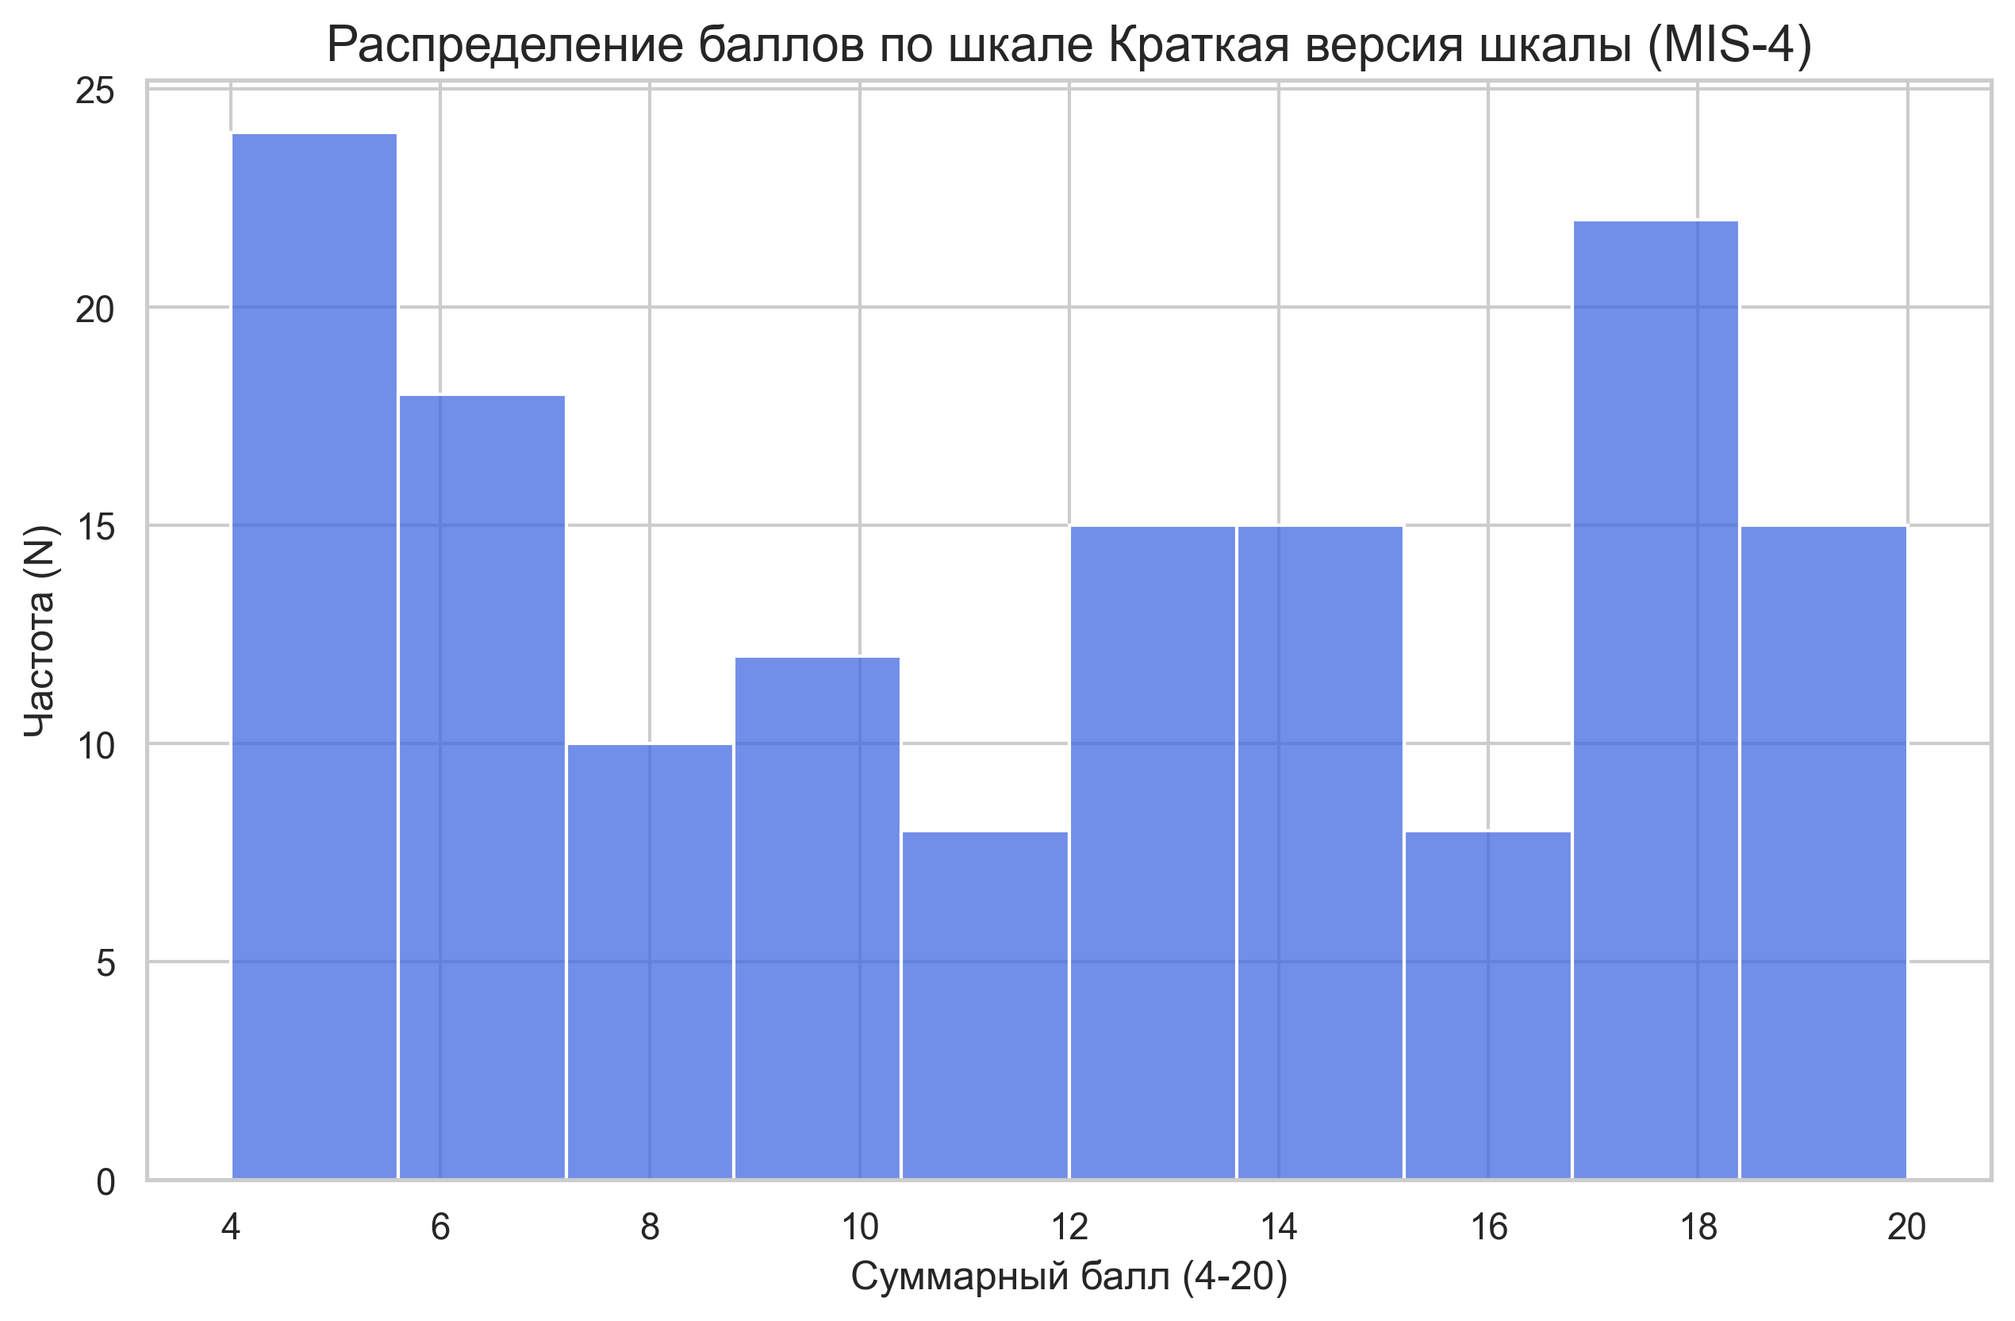
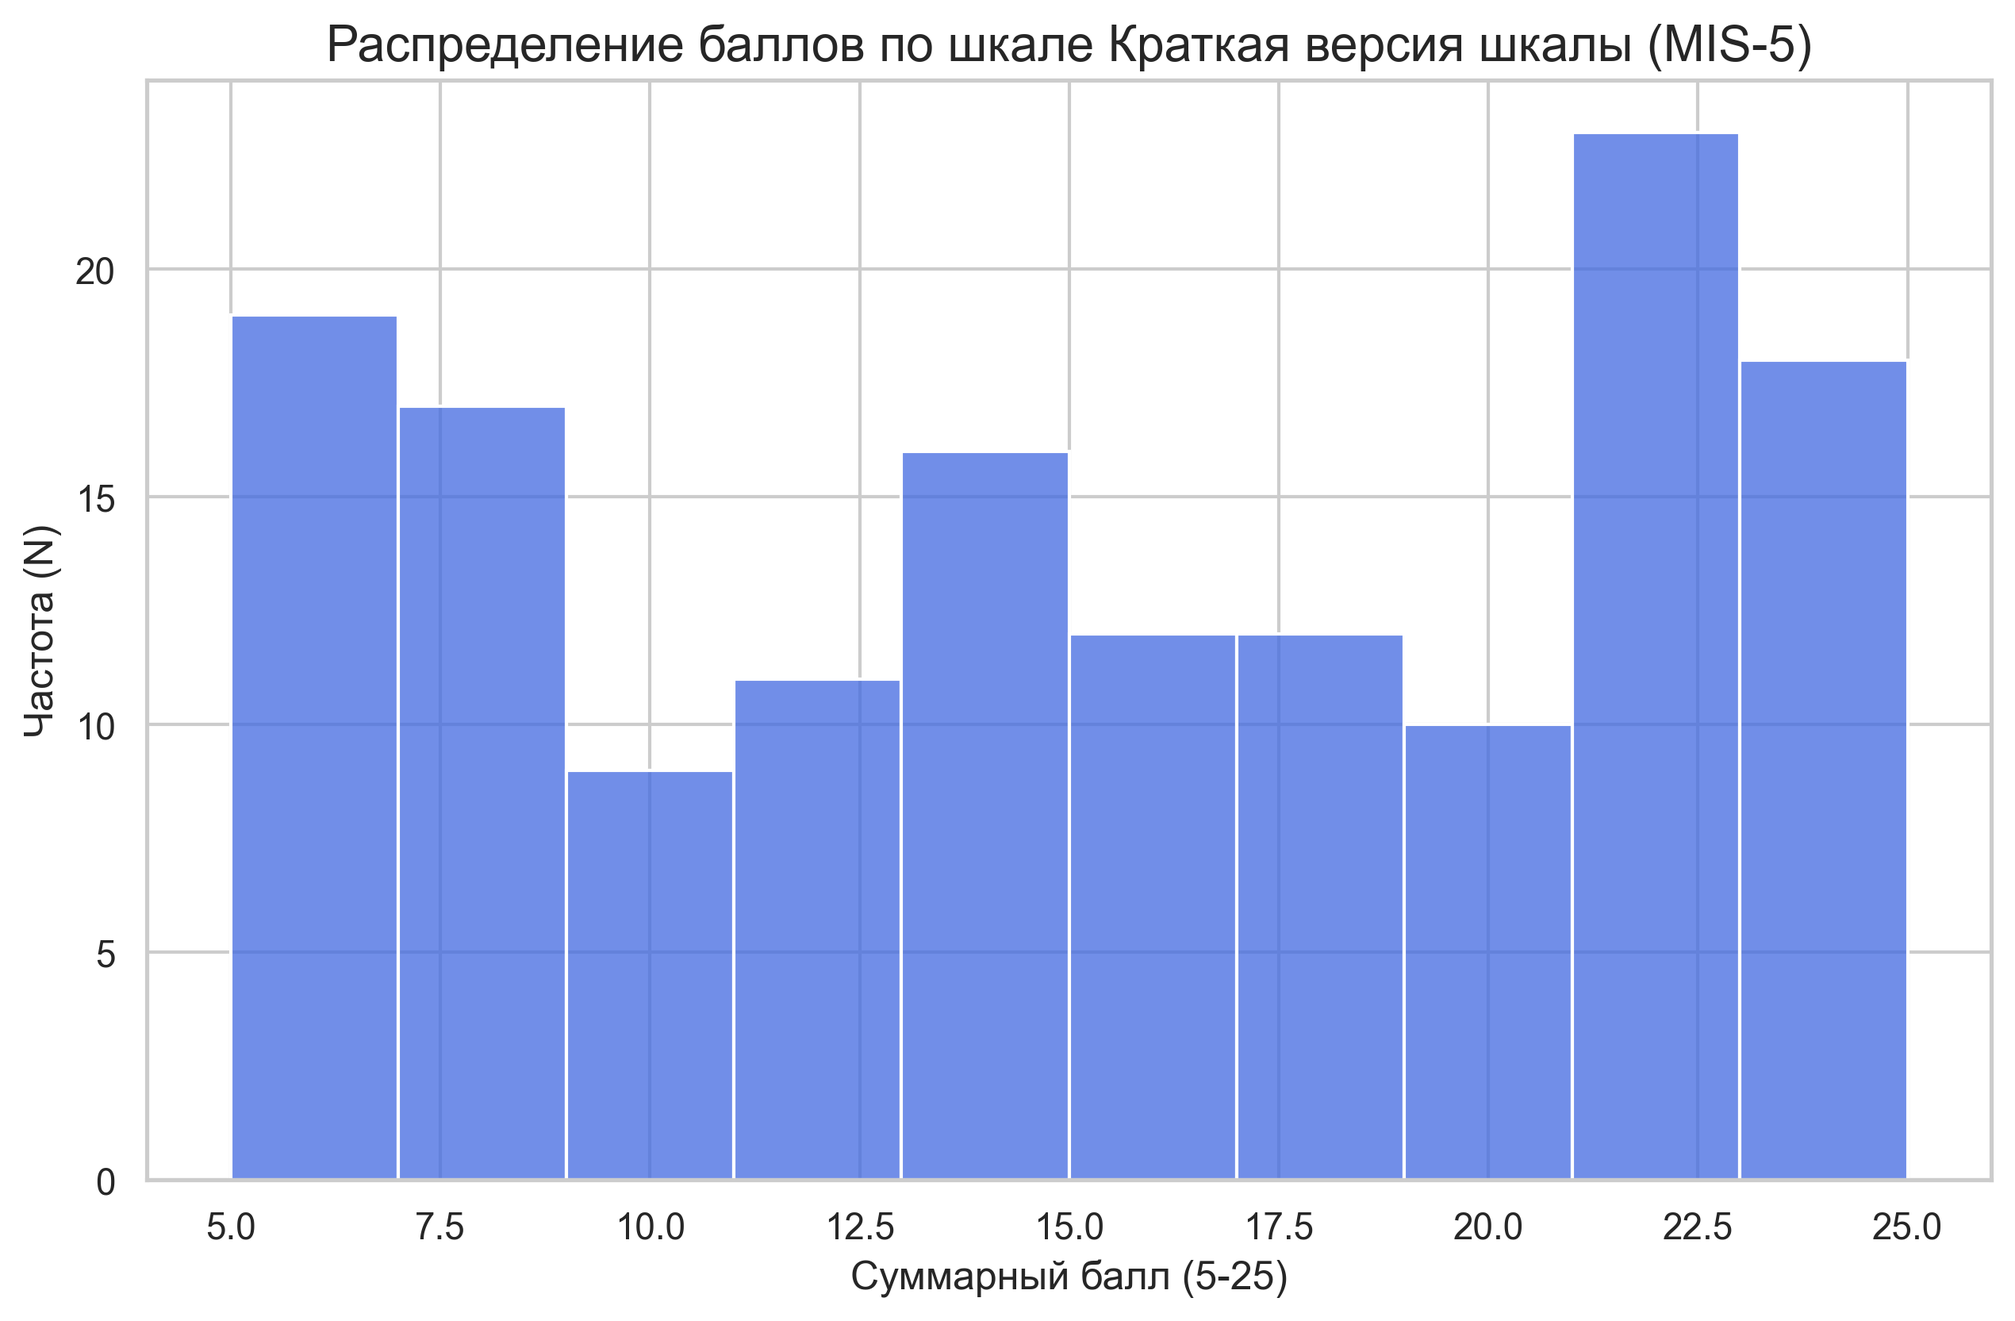
Добавил бутстрепа

diff --git a/Survey-00 (Multi-Item Scale Development)/mis_psychometric_report_gen.py b/Survey-00 (Multi-Item Scale Development)/mis_psychometric_report_gen.py
@@ -49,8 +49,8 @@ warnings.filterwarnings("ignore")
 SCRIPT_DIR = os.path.dirname(os.path.abspath(__file__))
 FILE_PATH = os.path.join(SCRIPT_DIR, 'Тест многопунктовой шкалы - RawResponses (1).csv')
 OUTPUT_MD = os.path.join(SCRIPT_DIR, 'mis_full_psychometric_report.md')
-OUTPUT_MD = r'C:\Users\maxim\OneDrive\Obsidian\MyBrain\Мои исследования\Джедайская шкала\mis_full_psychometric_report.md'
-SHORT_SCALE_SIZE = 4
+#OUTPUT_MD = r'C:\Users\maxim\OneDrive\Obsidian\MyBrain\Мои исследования\Джедайская шкала\mis_full_psychometric_report.md'
+SHORT_SCALE_SIZE = 5
 MIS_CUSTOM_COLS = ['MIS_q_28', 'MIS_q_24', 'MIS_q_16', 'MIS_q_26', 'MIS_q_13']
 
 
@@ -292,6 +292,43 @@ class MISAnalyzer:
         avg_corr = inter_corr.where(mask).stack().mean()
         return inter_corr, avg_corr
 
+    def bootstrap_selection_stability(self, n_iterations=100, n_top=None):
+        if n_top is None:
+            n_top = SHORT_SCALE_SIZE
+            
+        print(f"Running Bootstrap Stability Analysis ({n_iterations} iterations)...")
+        cols = [f'MIS_q_{i}' for i in range(1, 31)]
+        selection_counts = {c: 0 for c in cols}
+        
+        for i in range(n_iterations):
+            if (i + 1) % 100 == 0:
+                print(f"    Iteration {i + 1}/{n_iterations}...")
+            
+            # Resample with replacement
+            sample = self.df[cols].sample(n=len(self.df), replace=True)
+            # sample = self.df[cols].sample(frac=0.8, replace=False) # Вариант большей жести
+            
+            try:
+                # FA 1-factor unrotated
+                fa = FactorAnalyzer(n_factors=1, rotation=None)
+                fa.fit(sample)
+                loadings = np.abs(fa.loadings_[:, 0])
+            except:
+                # Fallback to PCA if FA fails on a specific sample
+                pca = PCA(n_components=1)
+                std_sample = (sample - sample.mean()) / sample.std()
+                pca.fit(std_sample)
+                loadings = np.abs(pca.components_[0])
+                
+            loadings_series = pd.Series(loadings, index=cols)
+            top_items = loadings_series.sort_values(ascending=False).head(n_top).index
+            for item in top_items:
+                selection_counts[item] += 1
+                
+        # Convert to percentage
+        stability = pd.Series(selection_counts) / n_iterations
+        return stability.sort_values(ascending=False)
+
     def get_correlations(self):
         mis_scales = list(MIS_BLOCKS.keys()) + ['MIS_Total', 'MIS_short']
         if 'MIS_custom' in self.df.columns:
@@ -361,9 +398,12 @@ def run_report():
     factors_unrotated = analyzer.get_factor_structure(rotation=None)
     factors_full = analyzer.get_factor_structure(rotation='varimax')
     
+    # Bootstrap Stability Analysis
+    stability_data = analyzer.bootstrap_selection_stability(n_iterations=1000)
+    
     corr_m, p_m = analyzer.get_correlations()
     
-    def write_scale_analysis(f, analyzer, title, scale_id, cols):
+    def write_scale_analysis(f, analyzer, title, scale_id, cols, stability_series=None):
         print(f"Computing metrics for {title}...")
         psy = analyzer.get_psychometrics(cols)
         factors = analyzer.get_factor_structure(cols)
@@ -432,6 +472,46 @@ def run_report():
             f.write("### Валидность (визуализация связи):\n\n")
             f.write(f"![Связь {scale_id} с single_item]({reg_img_name})\n\n")
             
+            if scale_id == 'short' and stability_series is not None:
+                # Stability plot
+                plt.figure(figsize=(10, 6))
+                top_15_stability = stability_series.head(15)
+                # Ensure we represent IDs correctly for x-axis
+                x_labels = [str(int(idx.split('_')[-1])) for idx in top_15_stability.index]
+                
+                ax = sns.barplot(x=x_labels, y=top_15_stability.values, color='seagreen')
+
+                # Add text labels on top of bars
+                for p in ax.patches:
+                    ax.annotate(f'{p.get_height():.1%}', 
+                                (p.get_x() + p.get_width() / 2., p.get_height()), 
+                                ha = 'center', va = 'center', 
+                                xytext = (0, 9), 
+                                textcoords = 'offset points', 
+                                fontsize=9)
+
+                plt.title(f'Устойчивость выбора пунктов MIS-{SHORT_SCALE_SIZE} (Bootstrap)', fontsize=15)
+                plt.xlabel('ID пункта (MIS_q_x)', fontsize=12)
+                plt.ylabel(f'Частота попадания в ТОП-{SHORT_SCALE_SIZE}', fontsize=12)
+                plt.ylim(0, 1.1)
+                
+                stab_img_name = f'mis_{scale_id}_stability.png'
+                stab_img_path = os.path.join(os.path.dirname(OUTPUT_MD), stab_img_name)
+                plt.savefig(stab_img_path, dpi=300, bbox_inches='tight')
+                plt.close()
+                f.write("### Анализ устойчивости выбора (Bootstrap):\n\n")
+                f.write(f"![Устойчивость {scale_id}]({stab_img_name})\n\n")
+                
+                f.write("> [!NOTE]\n")
+                f.write("> График показывает, как часто каждый пункт попадал в ТОП при 500 повторных расчетах на случайных подвыборках. ")
+                f.write("Пункты с частотой выше 0.8-0.9 считаются абсолютно стабильными для этой шкалы.\n\n")
+                
+                f.write("| Пункт | Частота попадания в ТОП |\n|---|---|\n")
+                for idx, val in top_15_stability.items():
+                    bold = "**" if idx in cols else ""
+                    f.write(f"| {bold}{idx}{bold} | {val:.1%} |\n")
+                f.write("\n")
+                
         except Exception as plot_err:
             print(f"    Plotting error for {scale_id}: {plot_err}")
 
@@ -524,7 +604,7 @@ def run_report():
         f.write("---")
         
         # Section for Short Scale
-        write_scale_analysis(f, analyzer, f"Краткая версия шкалы (MIS-{SHORT_SCALE_SIZE})", "short", analyzer.mis_short_cols)
+        write_scale_analysis(f, analyzer, f"Краткая версия шкалы (MIS-{SHORT_SCALE_SIZE})", "short", analyzer.mis_short_cols, stability_data)
         
         f.write("\n---\n")
         

diff --git a/Survey-00 (Multi-Item Scale Development)/mis_full_psychometric_report.md b/Survey-00 (Multi-Item Scale Development)/mis_full_psychometric_report.md
@@ -31,7 +31,7 @@
 ### Нагрузки факторов (без вращения):
 
 > [!NOTE]
-> В этой таблице представлены нагрузки на первые 5 факторов до применения вращения. Первый фактор (F1) здесь отражает общее ядро шкалы (General Factor), по которому отбирались пункты для MIS-4.
+> В этой таблице представлены нагрузки на первые 5 факторов до применения вращения. Первый фактор (F1) здесь отражает общее ядро шкалы (General Factor), по которому отбирались пункты для MIS-5.
 
 | Пункт | F1 | F2 | F3 | F4 | F5 |
 |---|---|---|---|---|---|
@@ -106,24 +106,24 @@
 
 ---
 
-# Краткая версия шкалы (MIS-4)
+# Краткая версия шкалы (MIS-5)
 
-Размер шкалы: 4 пунктов.
+Размер шкалы: 5 пунктов.
 
 > [!TIP]
 > Для выбора пунктов использовалось **однофакторное невращаемое решение**. Порядок пунктов в таблице полной шкалы может отличаться, так как там применено вращение Varimax для 5 факторов, перераспределяющее нагрузку. Для краткой версии мы выбираем пункты, максимально нагруженные на общий 'General Factor'.
 
 ## 1. Психометрические свойства short
 
-- **Альфа Кронбаха: 0.936**
-- **Омега Макдональда: 0.936**
-- **Средняя межпунктовая корреляция: 0.785**
-- **Доля дисперсии (PCA F1): 83.9%**
-- **Мера адекватности выборки KMO: 0.850**
+- **Альфа Кронбаха: 0.945**
+- **Омега Макдональда: 0.945**
+- **Средняя межпунктовая корреляция: 0.774**
+- **Доля дисперсии (PCA F1): 82.0%**
+- **Мера адекватности выборки KMO: 0.897**
 - **Критерий сферичности Барлетта: p < 0.001*****
 
 ### Собственные числа (short):
-6.77, 0.60, 0.39, 0.31
+8.25, 0.63, 0.52, 0.35, 0.31
 
 ### Распределение баллов:
 
@@ -133,32 +133,60 @@
 
 ![Связь short с single_item](mis_short_vs_single.png)
 
+### Анализ устойчивости выбора (Bootstrap):
+
+![Устойчивость short](mis_short_stability.png)
+
+> [!NOTE]
+> График показывает, как часто каждый пункт попадал в ТОП при 500 повторных расчетах на случайных подвыборках. Пункты с частотой выше 0.8-0.9 считаются абсолютно стабильными для этой шкалы.
+
+| Пункт | Частота попадания в ТОП |
+|---|---|
+| **MIS_q_28** | 99.2% |
+| **MIS_q_24** | 93.2% |
+| **MIS_q_16** | 72.0% |
+| **MIS_q_26** | 70.5% |
+| **MIS_q_15** | 58.8% |
+| MIS_q_13 | 32.9% |
+| MIS_q_12 | 18.3% |
+| MIS_q_22 | 18.2% |
+| MIS_q_17 | 13.3% |
+| MIS_q_25 | 8.9% |
+| MIS_q_23 | 5.6% |
+| MIS_q_5 | 3.3% |
+| MIS_q_14 | 3.0% |
+| MIS_q_21 | 1.4% |
+| MIS_q_9 | 0.8% |
+
 ### Факторные нагрузки short (EFA):
 
 | Пункт | Нагрузка (Factor 1) |
 |---|---|
-| MIS_q_28 | -0.918 |
-| MIS_q_24 | -0.893 |
-| MIS_q_16 | -0.836 |
-| MIS_q_26 | -0.899 |
+| MIS_q_28 | -0.925 |
+| MIS_q_24 | -0.875 |
+| MIS_q_16 | -0.851 |
+| MIS_q_26 | -0.894 |
+| MIS_q_15 | -0.855 |
 
 ### Матрица межпунктовых корреляций short:
 
-| | MIS_q_28 | MIS_q_24 | MIS_q_16 | MIS_q_26 |
-|---|---|---|---|---|
-| **MIS_q_28** | 1.000 | 0.798 | 0.787 | 0.828 |
-| **MIS_q_24** | 0.798 | 1.000 | 0.749 | 0.822 |
-| **MIS_q_16** | 0.787 | 0.749 | 1.000 | 0.728 |
-| **MIS_q_26** | 0.828 | 0.822 | 0.728 | 1.000 |
+| | MIS_q_28 | MIS_q_24 | MIS_q_16 | MIS_q_26 | MIS_q_15 |
+|---|---|---|---|---|---|
+| **MIS_q_28** | 1.000 | 0.798 | 0.787 | 0.828 | 0.802 |
+| **MIS_q_24** | 0.798 | 1.000 | 0.749 | 0.822 | 0.717 |
+| **MIS_q_16** | 0.787 | 0.749 | 1.000 | 0.728 | 0.759 |
+| **MIS_q_26** | 0.828 | 0.822 | 0.728 | 1.000 | 0.754 |
+| **MIS_q_15** | 0.802 | 0.717 | 0.759 | 0.754 | 1.000 |
 
 ### Пункты short и их характеристики:
 
 | # | Текст пункта | Mean | SD | r-total | α-deleted |
 |---|---|---|---|---|---|
-| 28 | Я чувствую, что мои ресурсы (время и энергия) исчерпываются на срочное | 3.12 | 1.43 | 0.876 | 0.907 |
-| 24 | Срочные дела мешают мне развиваться в нужном мне направлении | 2.92 | 1.38 | 0.854 | 0.914 |
-| 16 | Я живу в режиме "тушения пожаров" большую часть времени | 2.71 | 1.45 | 0.806 | 0.930 |
-| 26 | Мой потенциал не реализуется из-за необходимости постоянно реагировать на срочное | 2.89 | 1.41 | 0.858 | 0.913 |
+| 28 | Я чувствую, что мои ресурсы (время и энергия) исчерпываются на срочное | 3.12 | 1.43 | 0.890 | 0.925 |
+| 24 | Срочные дела мешают мне развиваться в нужном мне направлении | 2.92 | 1.38 | 0.845 | 0.933 |
+| 16 | Я живу в режиме "тушения пожаров" большую часть времени | 2.71 | 1.45 | 0.825 | 0.937 |
+| 26 | Мой потенциал не реализуется из-за необходимости постоянно реагировать на срочное | 2.89 | 1.41 | 0.861 | 0.930 |
+| 15 | Срочные дела забирают мою лучшую энергию, важное получает остатки | 3.16 | 1.41 | 0.828 | 0.936 |
 
 ## 2. Валидность и Сравнение
 
@@ -166,14 +194,14 @@
 
 | Критерий | MIS-Total (30) | short | Сохранение связи |
 |---|---|---|---|
-| Планомерность | -0.453 | -0.441 | 97.3% |
-| Целеустремленность | -0.335 | -0.343 | 102.4% |
-| Настойчивость | -0.514 | -0.490 | 95.2% |
-| Фиксация на структурировании | 0.476 | 0.458 | 96.2% |
-| Самоорганизация | -0.125 | -0.109 | 87.3% |
-| Ориентация на настоящее | -0.157 | -0.153 | 97.1% |
-| ОСД Итого | -0.396 | -0.386 | 97.6% |
-| single_item | -0.751 | -0.715 | 95.1% |
+| Планомерность | -0.453 | -0.442 | 97.6% |
+| Целеустремленность | -0.335 | -0.347 | 103.3% |
+| Настойчивость | -0.514 | -0.489 | 95.0% |
+| Фиксация на структурировании | 0.476 | 0.466 | 97.8% |
+| Самоорганизация | -0.125 | -0.102 | 81.2% |
+| Ориентация на настоящее | -0.157 | -0.166 | 105.6% |
+| ОСД Итого | -0.396 | -0.385 | 97.4% |
+| single_item | -0.751 | -0.726 | 96.7% |
 
 ---
 
@@ -258,5 +286,5 @@
 | Влияние на долгосрочные цели | -0.421*** | -0.299*** | -0.530*** | 0.469*** | -0.102 | -0.158 | -0.373*** | -0.713*** |
 | Истощение ресурсов и усталость | -0.381*** | -0.327*** | -0.438*** | 0.450*** | -0.079 | -0.183* | -0.339*** | -0.708*** |
 | Общий балл MIS (30 пунктов) | -0.453*** | -0.335*** | -0.514*** | 0.476*** | -0.125 | -0.157 | -0.396*** | -0.751*** |
-| MIS_short | -0.441*** | -0.343*** | -0.490*** | 0.458*** | -0.109 | -0.153 | -0.386*** | -0.715*** |
+| MIS_short | -0.442*** | -0.347*** | -0.489*** | 0.466*** | -0.102 | -0.166* | -0.385*** | -0.726*** |
 | MIS_custom | -0.424*** | -0.333*** | -0.490*** | 0.465*** | -0.099 | -0.143 | -0.371*** | -0.717*** |
